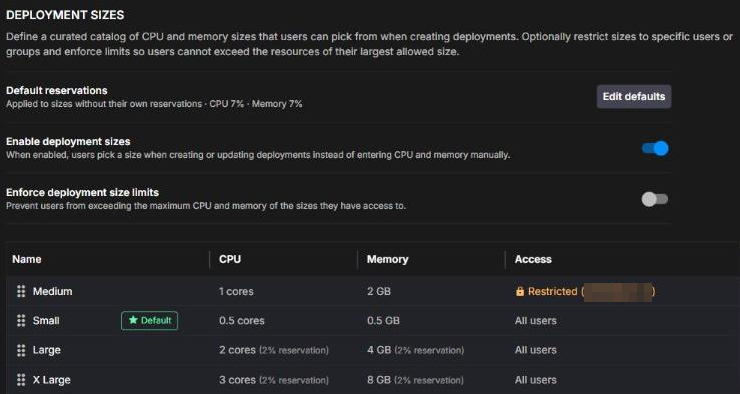
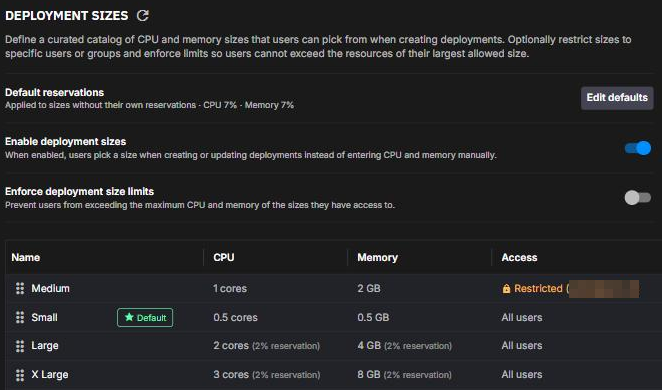
Quix-75274: Add the deployment resources panel and refresh the catalog

diff --git a/docs/quix-cloud/deployments/deployment-sizes.md b/docs/quix-cloud/deployments/deployment-sizes.md
@@ -96,9 +96,11 @@ The **Deployment resources** panel of the [deployment dialog](./overview.md#depl
 | Sizes enabled, limits not enforced | The Size dropdown lists the unrestricted sizes and each restricted size that selects the user individually, plus **Custom**. Picking a size locks the sliders to its values. Picking Custom unlocks them, bounded by your subscription's CPU and memory quota. |
 | Sizes enabled, limits enforced | The Size dropdown lists the same sizes, without **Custom** for a new deployment. When you edit an existing deployment, a disabled **Custom** entry can appear, and a size must be picked before saving. |
 
+![The Deployment resources panel with the Large size picked: CPU and memory locked at 2 cores and 4 GB, and the CPU/Memory reservation toggle locked on with the size's 2% reservations, which reserve 0.04 cores and 0.08 GB](../../images/deploy/deployment-resources-panel.png){width=80%}
+
 The **CPU/Memory reservation** toggle sits next to the dropdown whenever sizes are enabled:
 
-- Picking a named size locks the toggle.
+- Picking a named size locks the toggle and shows the note `Set by the <size> size and can't be changed here.` If the size has its own reservation, the toggle is on and the **CPU reserved (%)** and **Memory reserved (%)** sliders show its percentages, with the cores and GB they reserve. Otherwise the toggle is off.
 - With **Custom** selected and limits not enforced, the toggle is the user's. Switching it on seeds the sliders with the organization defaults, and the values saved become an explicit request on the deployment. Switching it off clears any explicit request so the deployment inherits again.
 - With limits enforced, the toggle is locked.
 
